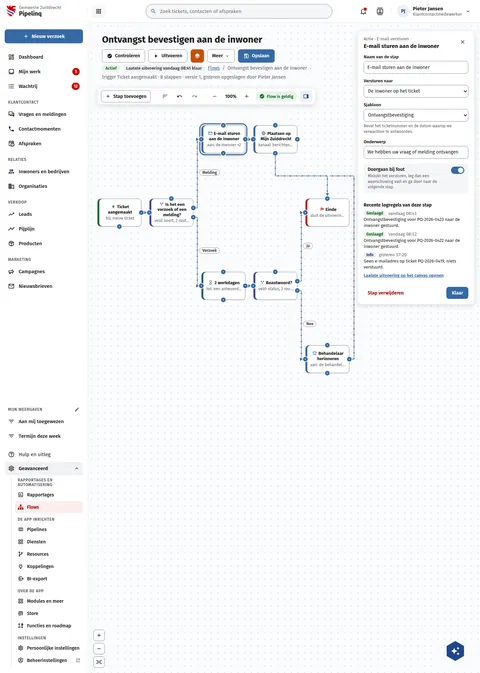
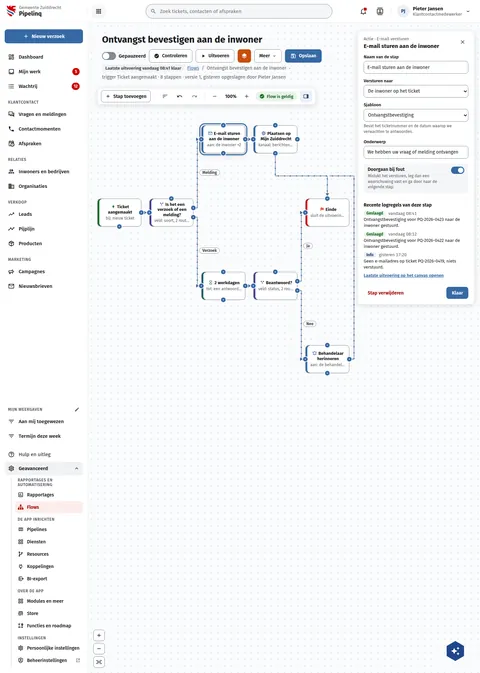
fix(screens): PqFlow's flow is paused, drawn with the board's switch
Decision (27 Oct): example flows stay switched off, so no demo flow mails
on every new ticket; OpenRegister stores every example-set flow off. The
board drew an "Actief" pill under the title; it now draws the flow board's
on/off switch, off and labelled "Gepauzeerd", first in the actions, as
the app and DqFlow's board draw it (pl2: toggle "Gepauzeerd" extra on
live, pill "Actief" missing).

Assisted-by: ClaudeCode:claude-opus-5-5

Changed region(s): [[0.375, 0.0624, 0.6875, 0.1248], [0.2188, 0.0624, 0.3438, 0.1248]]

diff --git a/preview/screens/boards/PqFlow.html b/preview/screens/boards/PqFlow.html
@@ -325,6 +325,7 @@ a{color:var(--sc-primary, #3669a5)}a:hover{color:var(--sc-primary-deep, #234a78)
         <div style="display: flex; flex-wrap: wrap; justify-content: space-between; align-items: flex-start; gap: 12px 24px">
           <h1 style="flex: 1 1 320px; min-width: 0; margin: 0; font-size: 28px; font-weight: 700; line-height: 1.2">Ontvangst bevestigen aan de inwoner</h1>
           <div style="flex: none; display: flex; flex-wrap: wrap; gap: 10px">
+            <span style="display: inline-flex; align-items: center; gap: 8px; height: 40px"><button type="button" role="switch" aria-checked="false" aria-label="Gepauzeerd" style="flex: none; position: relative; width: 42px; height: 24px; border: 6px solid transparent; background-clip: padding-box; box-sizing: content-box; margin: -6px; padding: 0; border-radius: 18px; background-color: var(--sc-work-field, #828a95)"><span style="position: absolute; top: 2px; left: 2px; width: 20px; height: 20px; border-radius: 10px; background: #ffffff"></span></button><span style="font-size: 15px; font-weight: 600">Gepauzeerd</span></span>
             <button type="button" style="display: flex; align-items: center; gap: 8px; height: 40px; padding: 0 14px; border: 1px solid var(--sc-work-field, #828a95); border-radius: 8px; background: #ffffff; font: 600 14px var(--sc-font, 'Fira Sans'), sans-serif; color: var(--sc-work-ink, #1b1c1d)"><svg width="16" height="16" viewbox="0 0 24 24" fill="currentColor"><path d="M12 2C6.5 2 2 6.5 2 12S6.5 22 12 22 22 17.5 22 12 17.5 2 12 2M10 17L5 12L6.41 10.59L10 14.17L17.59 6.58L19 8L10 17Z"></path></svg>Controleren</button>
             <button type="button" title="Draait zodra de flow is opgeslagen en geldig is" style="display: flex; align-items: center; gap: 8px; height: 40px; padding: 0 14px; border: 1px solid var(--sc-work-field, #828a95); border-radius: 8px; background: #ffffff; font: 600 14px var(--sc-font, 'Fira Sans'), sans-serif; color: var(--sc-work-ink, #1b1c1d)"><svg width="16" height="16" viewbox="0 0 24 24" fill="currentColor"><path d="M8,5.14V19.14L19,12.14L8,5.14Z"></path></svg>Uitvoeren</button>
             <button type="button" aria-label="buildiq" title="buildiq" style="display: flex; align-items: center; justify-content: center; width: 40px; height: 40px; border: 0; border-radius: 8px; background: var(--sc-buildiq, #c64e0b); color: #ffffff"><svg width="20" height="20" viewbox="0 0 24 24" fill="currentColor"><path d="M12,16L19.36,10.27L21,9L12,2L3,9L4.63,10.27M12,18.54L4.62,12.81L3,14.07L12,21.07L21,14.07L19.37,12.8L12,18.54Z"></path></svg></button>
@@ -334,7 +335,6 @@ a{color:var(--sc-primary, #3669a5)}a:hover{color:var(--sc-primary-deep, #234a78)
         </div>
         <div style="display: flex; flex-direction: column; gap: 6px; min-width: 0">
           <div style="display: flex; flex-wrap: wrap; gap: 8px; align-items: center">
-            <span style="padding: 3px 10px; border-radius: 12px; background: #e7f3ea; color: #1e6b2a; font-size: 13px; font-weight: 600">Actief</span>
             <span style="padding: 3px 10px; border-radius: 12px; background: var(--sc-work-chip, #f0f1f3); color: var(--sc-work-text, #3d4047); font-size: 13px; font-weight: 600">Laatste uitvoering vandaag 08:41 klaar</span>
             <nav aria-label="Kruimelpad" style="font-size: 14px; color: var(--sc-work-muted, #5e6168); display: flex; gap: 8px"><a href="PqFlows.html">Flows</a><span aria-hidden="true">/</span><span aria-current="page">Ontvangst bevestigen aan de inwoner</span></nav><span aria-hidden="true" style="color: var(--sc-work-muted, #5e6168)">·</span><span style="font-size: 14px; color: var(--sc-work-muted, #5e6168)">trigger Ticket aangemaakt · 8 stappen · versie 1, gisteren opgeslagen door Pieter Jansen</span>
           </div>

diff --git a/screens-src/zuiddrecht/PqFlow.dc.html b/screens-src/zuiddrecht/PqFlow.dc.html
@@ -47,6 +47,7 @@ a{color:#3669a5}a:hover{color:#234a78}
         <div style="display: flex; flex-wrap: wrap; justify-content: space-between; align-items: flex-start; gap: 12px 24px">
           <h1 style="flex: 1 1 320px; min-width: 0; margin: 0; font-size: 28px; font-weight: 700; line-height: 1.2">Ontvangst bevestigen aan de inwoner</h1>
           <div style="flex: none; display: flex; flex-wrap: wrap; gap: 10px">
+            <span style="display: inline-flex; align-items: center; gap: 8px; height: 40px"><button type="button" role="switch" aria-checked="false" aria-label="Gepauzeerd" style="flex: none; position: relative; width: 42px; height: 24px; border: 6px solid transparent; background-clip: padding-box; box-sizing: content-box; margin: -6px; padding: 0; border-radius: 18px; background-color: #828a95"><span style="position: absolute; top: 2px; left: 2px; width: 20px; height: 20px; border-radius: 10px; background: #ffffff"></span></button><span style="font-size: 15px; font-weight: 600">Gepauzeerd</span></span>
             <button type="button" style="display: flex; align-items: center; gap: 8px; height: 40px; padding: 0 14px; border: 1px solid #828a95; border-radius: 8px; background: #ffffff; font: 600 14px 'Fira Sans', sans-serif; color: #1b1c1d"><svg width="16" height="16" viewBox="0 0 24 24" fill="currentColor"><path d="M12 2C6.5 2 2 6.5 2 12S6.5 22 12 22 22 17.5 22 12 17.5 2 12 2M10 17L5 12L6.41 10.59L10 14.17L17.59 6.58L19 8L10 17Z"></path></svg>Controleren</button>
             <button type="button" title="Draait zodra de flow is opgeslagen en geldig is" style="display: flex; align-items: center; gap: 8px; height: 40px; padding: 0 14px; border: 1px solid #828a95; border-radius: 8px; background: #ffffff; font: 600 14px 'Fira Sans', sans-serif; color: #1b1c1d"><svg width="16" height="16" viewBox="0 0 24 24" fill="currentColor"><path d="M8,5.14V19.14L19,12.14L8,5.14Z"></path></svg>Uitvoeren</button>
             <button type="button" aria-label="buildiq" title="buildiq" style="display: flex; align-items: center; justify-content: center; width: 40px; height: 40px; border: 0; border-radius: 8px; background: #c64e0b; color: #ffffff"><svg width="20" height="20" viewBox="0 0 24 24" fill="currentColor"><path d="M12,16L19.36,10.27L21,9L12,2L3,9L4.63,10.27M12,18.54L4.62,12.81L3,14.07L12,21.07L21,14.07L19.37,12.8L12,18.54Z"></path></svg></button>
@@ -56,7 +57,6 @@ a{color:#3669a5}a:hover{color:#234a78}
         </div>
         <div style="display: flex; flex-direction: column; gap: 6px; min-width: 0">
           <div style="display: flex; flex-wrap: wrap; gap: 8px; align-items: center">
-            <span style="padding: 3px 10px; border-radius: 12px; background: #e7f3ea; color: #1e6b2a; font-size: 13px; font-weight: 600">Actief</span>
             <span style="padding: 3px 10px; border-radius: 12px; background: #f0f1f3; color: #3d4047; font-size: 13px; font-weight: 600">Laatste uitvoering vandaag 08:41 klaar</span>
             <nav aria-label="Kruimelpad" style="font-size: 14px; color: #5e6168; display: flex; gap: 8px"><a href="PqFlows.dc.html">Flows</a><span aria-hidden="true">/</span><span aria-current="page">Ontvangst bevestigen aan de inwoner</span></nav><span aria-hidden="true" style="color: #5e6168">·</span><span style="font-size: 14px; color: #5e6168">trigger Ticket aangemaakt · 8 stappen · versie 1, gisteren opgeslagen door Pieter Jansen</span>
           </div>
